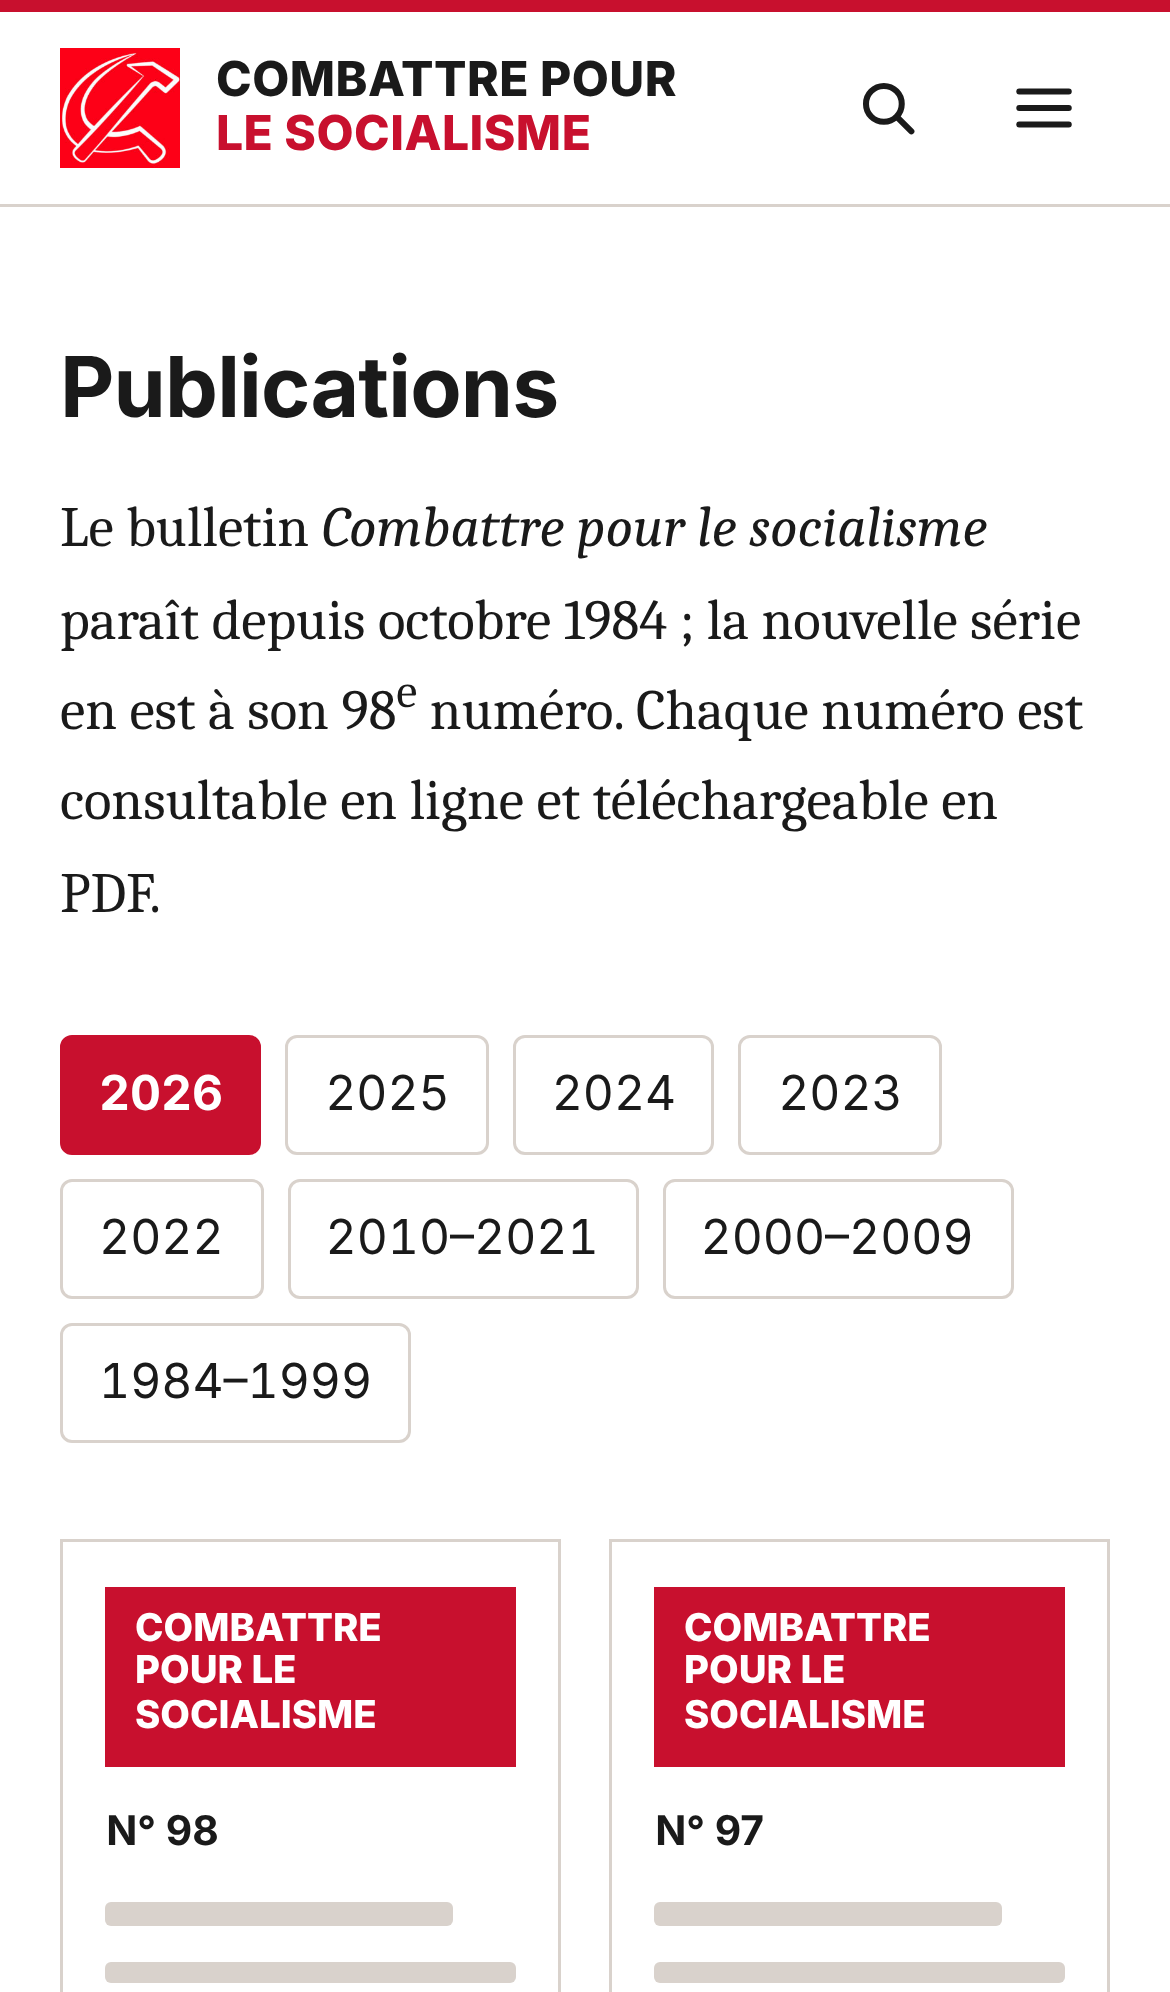
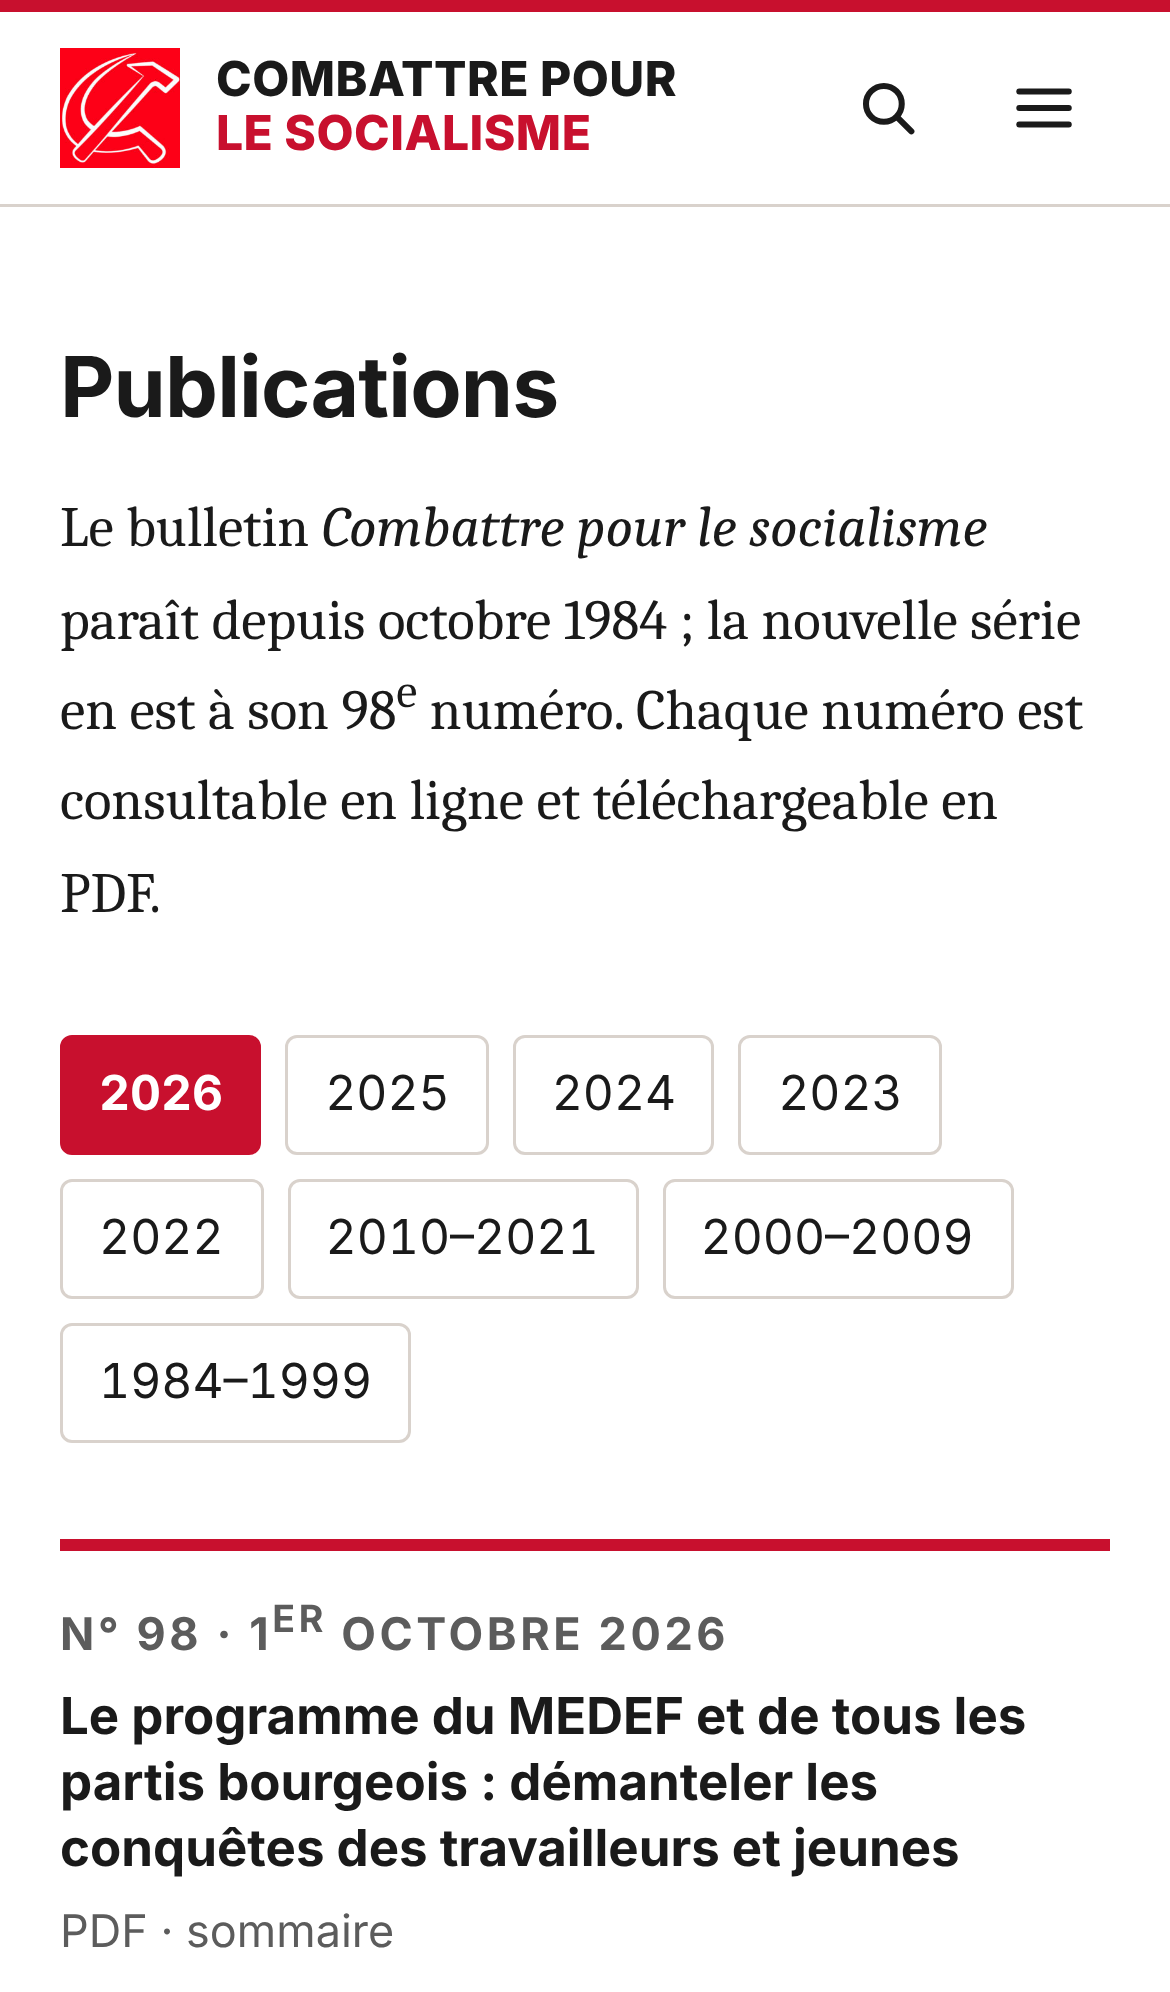
Maquette : retire les photos et la fausse couverture
Accueil et Publications en version texte seule, avec un filet rouge
en tête de chaque bloc.

Claude-Session: https://claude.ai/code/session_01JsBTsK6xjiaPPHPMJ6fHq2

Changed region(s): [[0.0308, 0.747, 0.9538, 0.996]]

diff --git a/maquette/publications.html b/maquette/publications.html
@@ -50,44 +50,44 @@
         <h2 class="visuellement-cache">Numéros récents</h2>
         <ul class="numeros">
           <li>
-            <div class="couverture" aria-hidden="true"><div class="couverture-bandeau">Combattre pour le socialisme</div><div class="couverture-num">N° 98</div><div class="couverture-ligne"></div><div class="couverture-ligne"></div><div class="couverture-ligne"></div><div class="couverture-ligne"></div></div>
-            <h3><a href="index.html#journal">N° 98 — 1<sup>er</sup> octobre 2026</a></h3>
-            <p>Le programme du MEDEF et de tous les partis bourgeois : démanteler les conquêtes des travailleurs et jeunes</p>
+            <p class="surtitre">N° 98 · 1<sup>er</sup> octobre 2026</p>
+            <h3><a href="index.html#journal">Le programme du MEDEF et de tous les partis bourgeois : démanteler les conquêtes des travailleurs et jeunes</a></h3>
+            <p>PDF · sommaire</p>
           </li>
           <li>
-            <div class="couverture" aria-hidden="true"><div class="couverture-bandeau">Combattre pour le socialisme</div><div class="couverture-num">N° 97</div><div class="couverture-ligne"></div><div class="couverture-ligne"></div><div class="couverture-ligne"></div><div class="couverture-ligne"></div></div>
-            <h3><a href="index.html#journal">N° 97 — 30 avril 2026</a></h3>
-            <p>Rapport sur la situation internationale adopté par la VII<sup>e</sup> conférence du Groupe</p>
+            <p class="surtitre">N° 97 · 30 avril 2026</p>
+            <h3><a href="index.html#journal">Rapport sur la situation internationale adopté par la VII<sup>e</sup> conférence du Groupe</a></h3>
+            <p>PDF · sommaire</p>
           </li>
           <li>
-            <div class="couverture" aria-hidden="true"><div class="couverture-bandeau">Combattre pour le socialisme</div><div class="couverture-num">N° 96</div><div class="couverture-ligne"></div><div class="couverture-ligne"></div><div class="couverture-ligne"></div><div class="couverture-ligne"></div></div>
-            <h3><a href="index.html#journal">N° 96 — 28 février 2026</a></h3>
-            <p>L'adoption du budget 2026 : un pas décisif pour le gouvernement, une défaite sans combat pour le prolétariat</p>
+            <p class="surtitre">N° 96 · 28 février 2026</p>
+            <h3><a href="index.html#journal">L'adoption du budget 2026 : un pas décisif pour le gouvernement, une défaite sans combat pour le prolétariat</a></h3>
+            <p>PDF · sommaire</p>
           </li>
           <li>
-            <div class="couverture" aria-hidden="true"><div class="couverture-bandeau">Combattre pour le socialisme</div><div class="couverture-num">N° 95</div><div class="couverture-ligne"></div><div class="couverture-ligne"></div><div class="couverture-ligne"></div><div class="couverture-ligne"></div></div>
-            <h3><a href="index.html#journal">N° 95 — 11 octobre 2025</a></h3>
-            <p>Pour la bourgeoisie, il faut un budget de guerre</p>
+            <p class="surtitre">N° 95 · 11 octobre 2025</p>
+            <h3><a href="index.html#journal">Pour la bourgeoisie, il faut un budget de guerre</a></h3>
+            <p>PDF · sommaire</p>
           </li>
           <li>
-            <div class="couverture" aria-hidden="true"><div class="couverture-bandeau">Combattre pour le socialisme</div><div class="couverture-num">N° 94</div><div class="couverture-ligne"></div><div class="couverture-ligne"></div><div class="couverture-ligne"></div><div class="couverture-ligne"></div></div>
-            <h3><a href="index.html#journal">N° 94 — 8 mai 2025</a></h3>
-            <p>Le gouvernement Macron-Bayrou-Retailleau prépare un budget de guerre contre les travailleurs et jeunes</p>
+            <p class="surtitre">N° 94 · 8 mai 2025</p>
+            <h3><a href="index.html#journal">Le gouvernement Macron-Bayrou-Retailleau prépare un budget de guerre contre les travailleurs et jeunes</a></h3>
+            <p>PDF · sommaire</p>
           </li>
           <li>
-            <div class="couverture" aria-hidden="true"><div class="couverture-bandeau">Combattre pour le socialisme</div><div class="couverture-num">N° 93</div><div class="couverture-ligne"></div><div class="couverture-ligne"></div><div class="couverture-ligne"></div><div class="couverture-ligne"></div></div>
-            <h3><a href="index.html#journal">N° 93 — 30 janvier 2025</a></h3>
-            <p>Face aux attaques du gouvernement, une seule issue : l'affronter</p>
+            <p class="surtitre">N° 93 · 30 janvier 2025</p>
+            <h3><a href="index.html#journal">Face aux attaques du gouvernement, une seule issue : l'affronter</a></h3>
+            <p>PDF · sommaire</p>
           </li>
           <li>
-            <div class="couverture" aria-hidden="true"><div class="couverture-bandeau">Combattre pour le socialisme</div><div class="couverture-num">N° 92</div><div class="couverture-ligne"></div><div class="couverture-ligne"></div><div class="couverture-ligne"></div><div class="couverture-ligne"></div></div>
-            <h3><a href="index.html#journal">N° 92 — 9 octobre 2024</a></h3>
-            <p>Face au gouvernement Macron-Barnier-Retailleau, combattre pour imposer le front unique</p>
+            <p class="surtitre">N° 92 · 9 octobre 2024</p>
+            <h3><a href="index.html#journal">Face au gouvernement Macron-Barnier-Retailleau, combattre pour imposer le front unique</a></h3>
+            <p>PDF · sommaire</p>
           </li>
           <li>
-            <div class="couverture" aria-hidden="true"><div class="couverture-bandeau">Combattre pour le socialisme</div><div class="couverture-num">N° 91</div><div class="couverture-ligne"></div><div class="couverture-ligne"></div><div class="couverture-ligne"></div><div class="couverture-ligne"></div></div>
-            <h3><a href="index.html#journal">N° 91 — 23 mai 2024</a></h3>
-            <p>France : notes politiques</p>
+            <p class="surtitre">N° 91 · 23 mai 2024</p>
+            <h3><a href="index.html#journal">France : notes politiques</a></h3>
+            <p>PDF · sommaire</p>
           </li>
         </ul>
       </div>

diff --git a/maquette/index.html b/maquette/index.html
@@ -45,7 +45,7 @@
 
     <!-- À LA UNE : le titre est le mot d'ordre, pas « Supplément à CPS n° 98 » -->
     <section class="section" aria-labelledby="une-titre">
-      <div class="conteneur une">
+      <div class="conteneur une une--texte">
         <div>
           <p class="surtitre">Supplément au n° 98 · <time datetime="2026-11-01">1<sup>er</sup> novembre 2026</time></p>
           <h2 class="une-titre" id="une-titre"><a href="article.html">Pour défaire le gouvernement Macron-Lecornu-Nuñez : manifestation centrale à l'Assemblée nationale</a></h2>
@@ -55,24 +55,14 @@
             <a class="bouton bouton--contour" href="#">Télécharger le PDF <span class="meta" style="color:inherit">(2 p.)</span></a>
           </div>
         </div>
-        <figure>
-          <img src="img/manif-montpellier.jpg" alt="Manifestation de jeunes et de travailleurs devant l'Arc de triomphe du Peyrou à Montpellier, drapeaux rouges levés." width="1024" height="894">
-          <figcaption>Montpellier, 17 octobre 2026.</figcaption>
-        </figure>
       </div>
     </section>
 
     <!-- DERNIER NUMÉRO -->
     <section class="section section--douce" id="journal" aria-labelledby="numero-titre">
       <div class="conteneur">
-        <h2 class="titre-section" id="numero-titre">Le dernier numéro <a href="publications.html">Tous les numéros depuis 1984</a></h2>
-        <div class="numero">
-          <div class="couverture" aria-hidden="true">
-            <div class="couverture-bandeau">Combattre pour le socialisme</div>
-            <div class="couverture-num">N° 98 — 1<sup>er</sup> octobre 2026</div>
-            <div class="couverture-ligne"></div><div class="couverture-ligne"></div><div class="couverture-ligne"></div>
-            <div class="couverture-ligne"></div><div class="couverture-ligne"></div><div class="couverture-ligne"></div>
-          </div>
+        <h2 class="visuellement-cache" id="numero-titre">Dernier numéro du bulletin</h2>
+        <div class="numero numero--texte">
           <div>
             <p class="surtitre">N° 98 (nouvelle série) · <time datetime="2026-10-01">1<sup>er</sup> octobre 2026</time></p>
             <h3>Éditorial : Le programme du MEDEF et de tous les partis bourgeois : démanteler les conquêtes des travailleurs et jeunes, les écraser</h3>
@@ -99,19 +89,16 @@
         <h2 class="titre-section" id="positions-titre">Prises de position <a href="recherche.html">Toutes les prises de position</a></h2>
         <div class="cartes">
           <article class="carte">
-            <img src="img/photo-3.jpg" alt="" width="1024" height="905">
             <p class="meta"><span class="etiquette">Jeunesse</span><time datetime="2026-11-02">2 novembre 2026</time></p>
             <h3><a href="#">Pour satisfaire nos revendications et défaire le gouvernement, une manifestation centrale et unitaire à l'Assemblée nationale est nécessaire !</a></h3>
             <p>Supplément à <cite>Socialisme ou Barbarie</cite>, Cercle de jeunes révolutionnaires.</p>
           </article>
           <article class="carte">
-            <img src="img/photo-4.jpg" alt="" width="1024" height="683">
             <p class="meta"><span class="etiquette">Lycées</span><time datetime="2026-10-05">5 octobre 2026</time></p>
             <h3><a href="#">Inconditionnellement du côté de la mobilisation lycéenne et de ses revendications</a></h3>
             <p>Contre le gouvernement et la répression qu'il déchaîne sur les lycéens. À bas le projet de budget !</p>
           </article>
           <article class="carte">
-            <img src="img/photo-2.jpg" alt="" width="1024" height="768">
             <p class="meta"><span class="etiquette">École</span><time datetime="2026-10-05">5 octobre 2026</time></p>
             <h3><a href="#">Pour obtenir des moyens pour l'École publique et l'abrogation de Parcoursup</a></h3>
             <p>À bas le budget d'austérité de l'Éducation nationale 2027 !</p>

diff --git a/maquette/styles.css b/maquette/styles.css
@@ -388,3 +388,13 @@ sup { line-height: 0; }
   .liens-filtres a { margin: 0; border: 1px solid var(--filet); border-radius: 999px; min-height: 36px; padding: .25rem .75rem; }
   .liens-filtres .nombre { margin-left: .25rem; }
 }
+
+/* Version sans photos ni couverture */
+.une--texte { grid-template-columns: minmax(0, 52rem); }
+.une--texte .une-titre { font-size: clamp(2rem, 1.3rem + 2.8vw, 3.25rem); }
+.numero--texte { grid-template-columns: 1fr; max-width: 52rem; }
+.carte { border-top: 4px solid var(--rouge); padding-top: 1rem; }
+.numeros { grid-template-columns: repeat(3, 1fr); }
+.numeros li { border-top: 4px solid var(--rouge); padding-top: .9rem; }
+.numeros .surtitre { margin-bottom: .35rem; }
+@media (max-width: 760px) { .numeros { grid-template-columns: 1fr; } }
